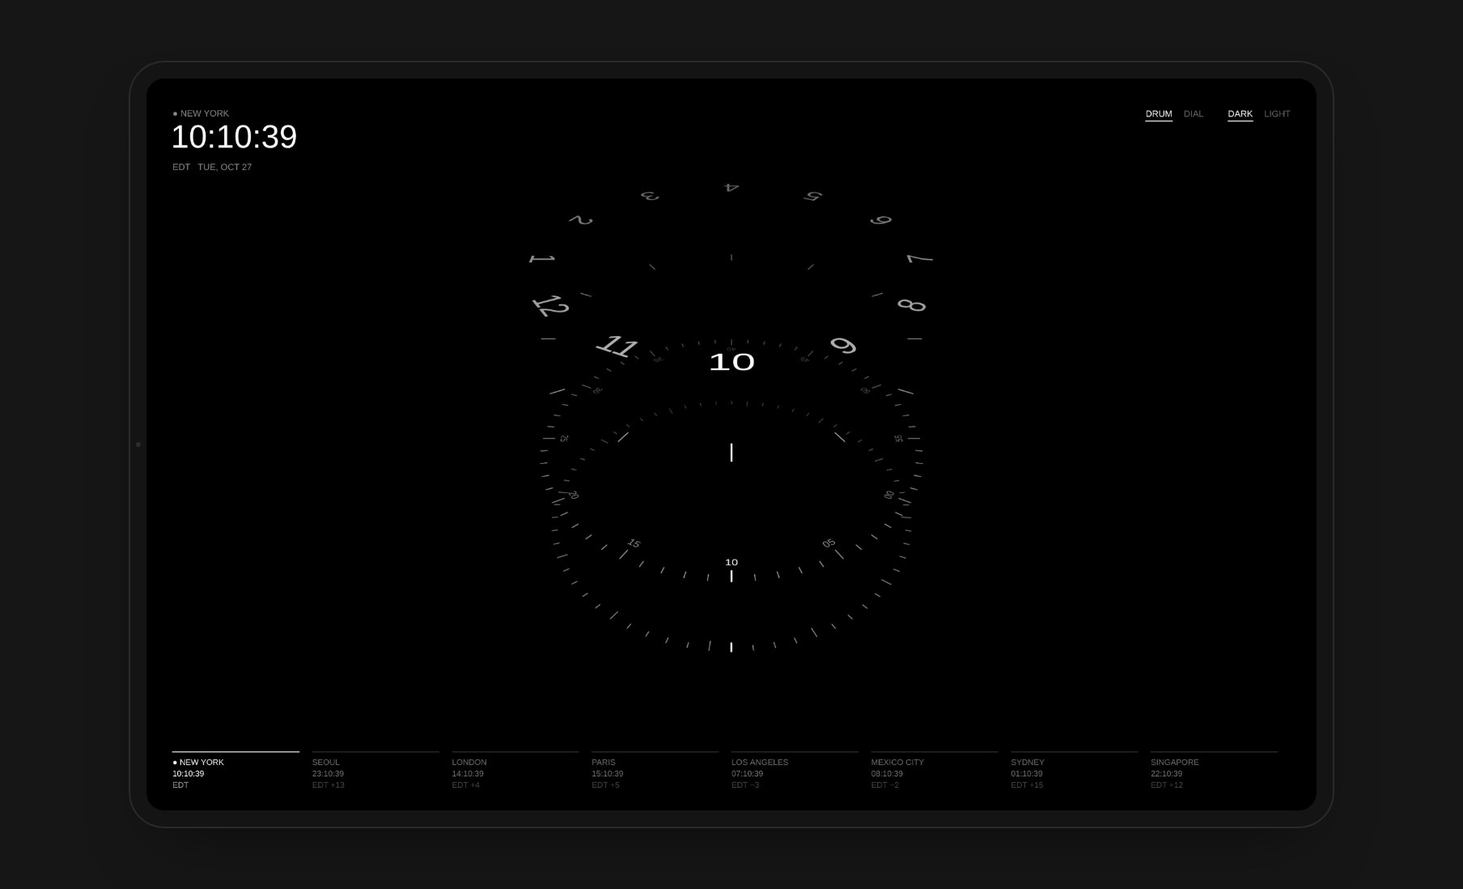
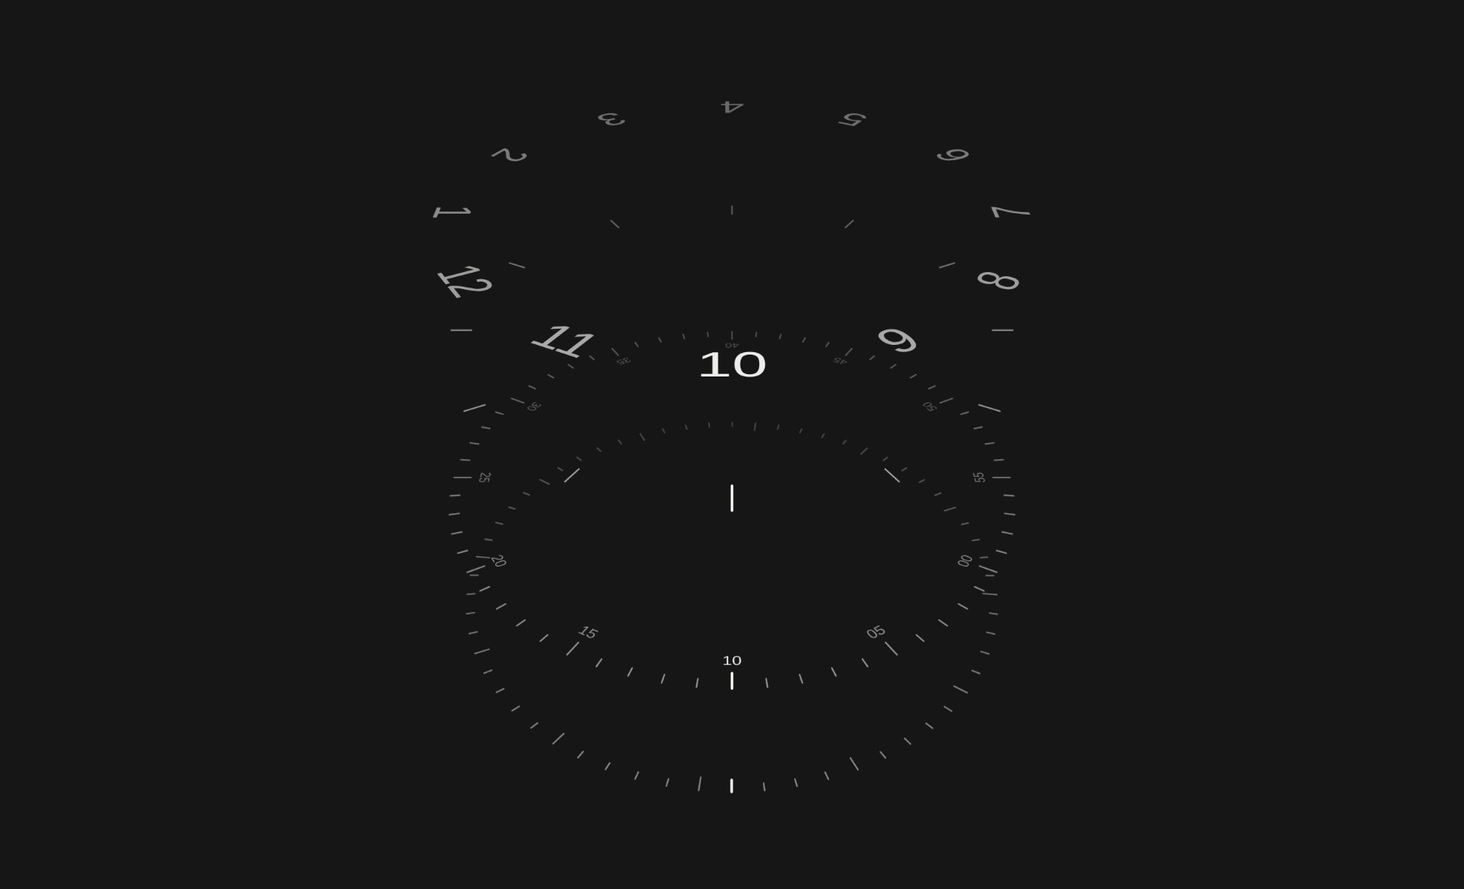
Clock case: focus on the current UI with cropped images, live light/dark demo, real phone frame; add project filter
Claude-Session: https://claude.ai/code/session_01K3jAfAAt78B67nopWeerwA

diff --git a/index.html b/index.html
@@ -125,6 +125,19 @@ html.intro::-webkit-scrollbar{display:none}
 .feed .media::before{transition:opacity .8s var(--ease)}
 .go .stmt .w>span{transform:none;transition:transform 1.35s var(--out)}
 .go .sub{opacity:1;transform:none;transition:opacity 1s var(--ease) 1s,transform 1.3s var(--out) 1s}
+/* project filter: quiet text buttons, the chosen one in full ink with a hairline under it */
+.flt{display:flex;justify-content:center;flex-wrap:wrap;gap:4px clamp(18px,2.2vw,30px);margin:clamp(56px,7vw,104px) 0 0;position:relative;z-index:5}
+.flt button{position:relative;padding:6px 0 7px;font-family:var(--sans);font-size:13.5px;font-weight:500;letter-spacing:-.015em;color:var(--muted);transition:color .5s var(--ease)}
+.flt button sup{margin-left:3px;font-size:10px;letter-spacing:0;vertical-align:baseline;position:relative;top:-.55em;color:var(--soft);transition:color .5s var(--ease)}
+.flt button::after{content:"";position:absolute;left:0;right:0;bottom:0;height:1px;background:var(--fg);transform:scaleX(0);transform-origin:right;transition:transform .7s var(--out)}
+.flt button:hover{color:var(--fg)}
+.flt button.on{color:var(--fg)}
+.flt button.on sup{color:var(--muted)}
+.flt button.on::after{transform:scaleX(1);transform-origin:left}
+.intro .flt{opacity:0;transform:translateY(14px)}
+.go .flt{opacity:1;transform:none;transition:opacity 1s var(--ease) 1.25s,transform 1.3s var(--out) 1.25s}
+.feed>li.f-off{display:none}
+.hero:has(.flt){padding-bottom:clamp(40px,4.4vw,72px)}
 .intro .nav{transform:translateY(-260%)}
 .go .nav{transform:none}
 
@@ -864,6 +877,19 @@ html body .cs .sec-the-globe .cz-pp li::before{width:26px!important;height:26px!
 @media (prefers-color-scheme:dark){:root:not([data-theme="light"]) .thm-d{display:block!important}:root:not([data-theme="light"]) .thm-l{display:none!important}}
 .atm-ld{position:relative}
 .clk-f{padding:0!important;overflow:hidden}
+.clk-c{display:flex;align-items:center;justify-content:center;padding:clamp(28px,4vw,56px) clamp(16px,3vw,40px)!important;min-height:clamp(160px,18vw,240px)}
+.clk-c img{display:block;max-width:100%;height:auto;width:auto;zoom:.5}
+.clk-c.clk-wide img{zoom:1;max-height:none;width:100%;max-width:640px}
+.clk-c.clk-wide img[src*="swipe"]{max-width:480px}
+.clk-c figcaption{position:absolute;left:0;right:0;bottom:14px}
+.clk-c.clk-wide{position:relative;flex-direction:column;padding-bottom:clamp(40px,5vw,60px)!important}
+.clk-ld{position:relative;aspect-ratio:1100/760;padding:0!important;overflow:hidden}
+.clk-ld iframe{position:absolute;inset:0;width:100%;height:100%;border:0;display:block;pointer-events:none}
+.clk-phs{display:flex;justify-content:center;align-items:flex-start;gap:clamp(12px,3.4vw,48px);padding:clamp(32px,5vw,64px) 16px!important}
+.dev-p15{position:relative;flex:none;width:min(28%,236px);aspect-ratio:710/1474;filter:drop-shadow(0 18px 22px rgba(0,0,0,.18))}
+.dev-p15 .scr{position:absolute;left:4.085%;top:2.103%;width:91.83%;height:96%;border-radius:15.3%/7.07%;overflow:hidden;background:#000}
+.dev-p15 .scr img{display:block;width:100%;height:100%;object-fit:cover}
+.dev-p15::after{content:"";position:absolute;inset:0;background:url(case/phone-frame-15.png) center/100% 100% no-repeat;pointer-events:none}
 .clk-f img{display:block;width:100%;height:auto}
 .clk-play{position:relative;aspect-ratio:16/10;background:#fff}
 :root[data-theme="dark"] .clk-play{background:#000}
@@ -1842,11 +1868,47 @@ $("#feed").innerHTML=ITEMS.map((it,i)=>{
   if(it.type==="lof"){const A=art(i,"lof");return `<li><button class="tile" type="button" data-lof>
       <div class="media" data-label="Lof Archive"><img class="art" src="${A.img}" alt="">${veil(`<span>Lof</span><span>2019</span>`,"Before screens, leather. Twelve cases, purses and ink-on-leather pieces, cut, dyed and stitched by hand.","See all 12 objects",A.fog)}</div>
       <span class="cap"><span class="t">Lof Archive</span><span class="y num">${ARCHIVE.length} objects · 2019</span></span></button></li>`}
-  const p=it.p, A=art(i);return `<li class="${FULL.has(p.slug)?'full ':WIDE.has(p.slug)?'wide ':''}${LIFE.has(p.slug)?'ph':'mk'}" style="--fp:${FOCUS[p.slug]||'50% 50%'}"><a class="tile" href="#${p.slug}" data-case="${p.slug}">
+  const p=it.p, A=art(i);return `<li data-cat="${FCAT(p)}" class="${FULL.has(p.slug)?'full ':WIDE.has(p.slug)?'wide ':''}${LIFE.has(p.slug)?'ph':'mk'}" style="--fp:${FOCUS[p.slug]||'50% 50%'}"><a class="tile" href="#${p.slug}" data-case="${p.slug}">
       <div class="media" data-label="${esc(p.title)}"><img class="art" src="${pic(p.slug)}" data-l="${pic(p.slug)}" data-d="${picD(p.slug)}" data-fb="${i}" alt="">${MOTION[p.slug]&&!reduce?`<iframe class="am" src="${MOTION[p.slug]}" title="${esc(p.title)} motion preview" tabindex="-1" aria-hidden="true"></iframe>`:''}${veilCase(p,pic(p.slug)).replace('<img class="fog"',`<img class="fog" data-l="${pic(p.slug)}" data-d="${picD(p.slug)}"`)}</div>
       <span class="cap"><span class="t">${p.title}</span><span class="y num">${p.client} · ${p.year}</span><span class="l">${LINE[p.slug]||p.sum}</span></span></a></li>`}).join("");
 
 const feed=$("#feed"), lis=[...feed.children];
+
+/* ---------- filter: all · vibe coding · work · concepts ---------- */
+// side projects were vibe coded with AI, The VC and PFCT were real company work in Korea,
+// everything else is a concept, a hackathon or self-initiated
+function FCAT(p){return {side:"ai",vc:"work",pf:"work"}[p.group]||"concept"}
+const FLT=[["all","All"],["ai","Vibe coding"],["work","Work"],["concept","Concepts"]];
+(()=>{
+  const count=c=>c==="all"?lis.length:lis.filter(li=>li.dataset.cat===c).length;
+  const nav=document.createElement("nav");nav.className="flt";nav.id="flt";nav.setAttribute("aria-label","Filter projects");
+  nav.innerHTML=FLT.filter(([c])=>count(c)>0).map(([c,l],k)=>`<button type="button" data-f="${c}" aria-pressed="${k===0}"${k===0?' class="on"':""}>${l}<sup class="num">${count(c)}</sup></button>`).join("");
+  $("#sub").after(nav);
+  let cur="all";
+  nav.addEventListener("click",e=>{
+    const b=e.target.closest("button[data-f]");if(!b||b.dataset.f===cur)return;
+    cur=b.dataset.f;
+    nav.querySelectorAll("button").forEach(x=>{const on=x===b;x.classList.toggle("on",on);x.setAttribute("aria-pressed",on)});
+    applyFilter(cur);
+  });
+  function applyFilter(c){
+    const show=li=>c==="all"||li.dataset.cat===c;
+    const leaving=lis.filter(li=>!li.classList.contains("f-off")&&!show(li));
+    const run=()=>{
+      // FLIP: remember where every visible card is, change the grid, then glide them into place
+      const first=new Map(lis.map(li=>[li,li.classList.contains("f-off")?null:li.getBoundingClientRect()]));
+      lis.forEach(li=>{li.classList.toggle("f-off",!show(li));li.style.opacity=""});
+      if(reduce)return;
+      lis.forEach((li,k)=>{if(li.classList.contains("f-off"))return;const a=first.get(li),b=li.getBoundingClientRect();
+        if(!a){li.animate([{opacity:0,transform:"translateY(28px)"},{opacity:1,transform:"none"}],{duration:900,delay:60+k*35,easing:"cubic-bezier(.16,1,.3,1)",fill:"backwards"});return}
+        const dx=a.left-b.left,dy=a.top-b.top;
+        if(Math.abs(dx)+Math.abs(dy)>1)li.animate([{transform:`translate(${dx}px,${dy}px)`},{transform:"none"}],{duration:1000,easing:"cubic-bezier(.16,1,.3,1)"})});
+    };
+    if(reduce||!leaving.length)return run();
+    leaving.forEach(li=>li.animate([{opacity:1,transform:"none"},{opacity:0,transform:"scale(.98)"}],{duration:240,easing:"ease-in",fill:"forwards"}));
+    setTimeout(()=>{leaving.forEach(li=>li.getAnimations().forEach(a=>a.cancel()));run()},230);
+  }
+})();
 syncArt();try{sysDark.addEventListener('change',syncArt)}catch(_){}
 feed.querySelectorAll("img[data-fb]").forEach(im=>{im.onerror=()=>{im.onerror=null;const A=art(+im.dataset.fb);im.src=A.img;const f=im.parentNode.querySelector(".fog");if(f)f.src=A.fog}});
 /* ---------- smooth scroll ---------- */
@@ -2288,22 +2350,28 @@ clock:{sec:[
    {h:"Real time",d:"Every ring follows the real hour, minute and second, in whichever city you pick."}]}]},
  {k:"The idea",h:"Taking a clock apart",b:["I wanted to take a clock apart into its pieces, hours, minutes and seconds, and turn it into an interactive tool where you can change the perspective and the mode.","So each unit became its own ring, stacked on top of the others like a drum. Instead of hands moving around a face, the rings turn, and the current time always ends up at the front."],
   blocks:[{t:"html",html:`<figure class="pn clk-f"><img class="thm-l" src="case/clock/parts.jpg" alt="The clock split into four rings: hours, hour marks, minutes and seconds" loading="lazy"><img class="thm-d" src="case/clock/parts-d.jpg" alt="The clock split into four rings: hours, hour marks, minutes and seconds" loading="lazy"></figure>`}]},
- {k:"Versions with Claude",h:"From LED pixels to thin lines",b:["I started by describing the assignment to Claude, and the first draft was a pixel clock made of glowing 3D blocks. It worked, but it looked like every other LED clock.","Then I found a reference of a rotating dial, with nothing but white lines and numbers on black, and asked Claude to rebuild it in that direction. From there it was a lot of small rounds. I looked at each version, pointed out what felt off, and kept going."],
-  blocks:[{t:"html",html:`<div class="atm-v">${[["v1","Pixel blocks","The first draft. The time was spelled out in colorful 3D blocks you could knock around with the mouse."],["v2","Black and white rings","After the reference, I dropped the color and turned the hours, minutes and seconds into stacked rings."],["v3","Lining up the present","The current hour, minute and second now sit on one line at the front, and the numbers run clockwise."],["v4","Phones and the last details","Text buttons, a swipeable city row, and light or dark depending on the time of day in each city."]].map(([f,h,d])=>`<figure><div class="pn atm-vc">${f==="v4"?`<img class="thm-l" src="case/clock/v4.jpg" alt="${h}" loading="lazy"><img class="thm-d" src="case/clock/v4-d.jpg" alt="${h}" loading="lazy">`:`<img src="case/clock/${f}.jpg" alt="${h}" loading="lazy">`}</div><h3>${h}</h3><p>${d}</p></figure>`).join("")}</div>`}]},
  {k:"Two views",h:"Drum and dial",b:"The same four rings can be read in two ways. You can switch between them with the buttons, or just double click the clock.",
   blocks:[{t:"html",html:`<div class="atm-m">${[["drum","Drum","The rings are stacked in 3D and seen from a slight angle. The hour is on top and the seconds are at the bottom, and the time you’re looking at is the line at the front."],["dial","Dial","The camera moves straight above and the rings flatten into a perfect circle, so it reads like a classic watch face again."]].map(([f,h,d])=>`<figure><div class="pn clk-f"><img class="thm-l" src="case/clock/${f}.jpg" alt="${h} view" loading="lazy"><img class="thm-d" src="case/clock/${f}-d.jpg" alt="${h} view" loading="lazy"></div><h3>${h}</h3><p>${d}</p></figure>`).join("")}</div>`}]},
+ {k:"Around the clock",h:"Just enough around it",b:"I kept everything around the clock small and quiet, in one typeface, so the rings stay the main thing on the screen.",
+  blocks:[{t:"html",html:`<div class="atm-m">${[["header","Where and when","The city you’re looking at, a big digital time for a quick read, and how far it is from New York with today’s date."],["modes","Two simple switches","DRUM or DIAL, and DARK or LIGHT. The one that’s on is bright and underlined, so you can tell at a glance what you’re looking at."]].map(([f,h,d])=>`<figure><div class="pn clk-c"><img class="thm-l" src="case/clock/${f}.png" alt="${h}" loading="lazy"><img class="thm-d" src="case/clock/${f}-d.png" alt="${h}" loading="lazy"></div><h3>${h}</h3><p>${d}</p></figure>`).join("")}</div>`}]},
+ {k:"World cities",h:"Every city, measured from New York",b:["The clock opens on wherever you are, marked with a small dot. Next to it are Seoul, then cities in Europe, the Americas and Australia, then a few more in other time zones. I made sure no two cities share the same time, so every one is worth checking.","Since I live in New York, every city shows how far it is from here, like EDT +13 for Seoul. In winter the label changes to EST on its own, and every city’s daylight saving time is handled by the browser."],
+  blocks:[{t:"html",html:`<figure class="pn clk-c clk-wide"><img class="thm-l" src="case/clock/cities.png" alt="The city row" loading="lazy"><img class="thm-d" src="case/clock/cities-d.png" alt="The city row" loading="lazy"></figure>`},
+   {t:"table",head:["","What it shows","Why"],rows:[
+    ["Your city","● New York","The browser knows your time zone, and with permission it also finds your city name."],
+    ["Time difference","EDT +13, EST −3","Easier to think in hours from home than in GMT."],
+    ["Day or night","Light or dark","From 6 am to 6 pm in that city the clock turns light, the rest of the day it’s dark."]]}]},
+ {k:"Light & dark",h:"The sky picks the theme",b:"When it’s daytime in the city you pick, the clock turns light, and at night it goes dark. Below, the clock keeps switching between a city where it’s day and one where it’s night, so you can watch the rings turn and the theme follow. You can still switch it yourself, and your choice stays until you change cities or the sun comes up or goes down there.",
+  blocks:[{t:"html",html:`<figure class="pn clk-ld"><iframe src="clock-panel.html?mode=ld" title="The clock switching between day and night cities" loading="lazy" tabindex="-1" aria-hidden="true"></iframe></figure>`}]},
  {k:"Try it",h:"Turn it, flatten it, travel with it",b:"This is the real clock running inside the page. Drag it to change the angle, switch views and themes, or pick another city at the bottom.",
-  blocks:[{t:"html",html:`<figure class="pn atm-ipf"><div class="ipad"><i class="cam"></i><div class="scr clk-play"><iframe src="clock-panel.html" title="Drum World Clock" loading="lazy"></iframe></div></div></figure>`},
+  blocks:[{t:"html",html:`<figure class="pn atm-ipf"><div class="ipad"><i class="cam"></i><div class="scr clk-play"><iframe src="clock-panel.html?mode=play" title="Drum World Clock" loading="lazy"></iframe></div></div></figure>`},
    {t:"cards",cols:4,num:true,items:[
     {h:"Drag",d:"Rotate the clock to see it from any angle. Let go and it floats back."},
     {h:"Scroll or pinch",d:"Zoom in and out. On phones it’s a two finger pinch."},
     {h:"Double click",d:"Flatten the drum into a dial and back. On phones, double tap."},
     {h:"Pick a city",d:"Tap any city in the row, and every ring turns to its time."}]}]},
- {k:"World cities",h:"Every city, measured from New York",b:["The clock opens on wherever you are, marked with a small dot. Next to it are Seoul, then cities in Europe, the Americas and Australia, then a few more in other time zones. I made sure no two cities share the same time, so every one is worth checking.","Since I live in New York, every city shows how far it is from here, like EDT +13 for Seoul. In winter the label changes to EST on its own, and every city’s daylight saving time is handled by the browser."],
-  blocks:[{t:"table",head:["","What it shows","Why"],rows:[
-    ["Your city","● New York","The browser knows your time zone, and with permission it also finds your city name."],
-    ["Time difference","EDT +13, EST −3","Easier to think in hours from home than in GMT."],
-    ["Day or night","Light or dark","From 6 am to 6 pm in that city the clock turns light, the rest of the day it’s dark."]]}]},
+ {k:"Mobile",h:"Made for phones too",b:"On a phone, the clock sits in the middle of the screen and gets as big as it can. All the cities live in one row that you can swipe sideways, with a soft fade at the edge so you know there’s more. You rotate with one finger and zoom with two.",
+  blocks:[{t:"html",html:`<figure class="pn clk-phs"><div class="dev-p15"><div class="scr"><img class="thm-l" src="case/clock/ph-drum.jpg" alt="" loading="lazy"><img class="thm-d" src="case/clock/ph-drum-d.jpg" alt="" loading="lazy"></div></div><div class="dev-p15"><div class="scr"><img class="thm-l" src="case/clock/ph-dial.jpg" alt="" loading="lazy"><img class="thm-d" src="case/clock/ph-dial-d.jpg" alt="" loading="lazy"></div></div><div class="dev-p15"><div class="scr"><img class="thm-l" src="case/clock/ph-list.jpg" alt="" loading="lazy"><img class="thm-d" src="case/clock/ph-list-d.jpg" alt="" loading="lazy"></div></div></figure>`},
+   {t:"html",html:`<figure class="pn clk-c clk-wide"><img class="thm-l" src="case/clock/swipe.png" alt="The swipeable city row on a phone" loading="lazy"><img class="thm-d" src="case/clock/swipe-d.png" alt="The swipeable city row on a phone" loading="lazy"><figcaption>The city row on a phone, swiped halfway</figcaption></figure>`}]},
  {k:"Small details",h:"Things I kept fixing",b:"Most of the work was in small things that felt slightly off. Each one was a short back and forth with Claude, where I described what I saw and we fixed it together.",
   blocks:[{t:"table",head:["What felt off","What I changed"],rows:[
     ["The current hour sat a little to the side of the minutes and seconds","Each ring now snaps to whole numbers, so the present always lines up in one line"],
@@ -2312,10 +2380,6 @@ clock:{sec:[
     ["The highlighted tick ran into its number","The current tick still grows, but it stops before reaching the label"],
     ["The clock looked like it was sinking","It now measures what is actually drawn, sits right under the header on desktop and in the middle on phones"],
     ["The rest of the clock competed with the time","Everything that isn’t the current time is a little softer, so the white stands out"]]}]},
- {k:"Light & dark",h:"The sky picks the theme",b:"When it’s daytime in the city you pick, the clock turns light, and at night it goes dark. You can still switch it yourself, and your choice stays until you change cities or the sun comes up or goes down there.",
-  blocks:[{t:"html",html:`<figure class="pn atm-ipf"><div class="ipad"><i class="cam"></i><div class="scr atm-ld"><img src="case/clock/ld-l.jpg" alt="New York in the morning, in light mode" loading="lazy"><img class="dk" src="case/clock/ld-d.jpg" alt="Seoul at night, in dark mode" loading="lazy"></div></div></figure>`}]},
- {k:"Mobile",h:"Made for phones too",b:"On a phone, the clock sits in the middle of the screen and gets as big as it can. All the cities live in one row that you can swipe sideways, and you rotate with one finger and zoom with two.",
-  blocks:[{t:"html",html:`<figure class="pn clk-f"><img class="thm-l" src="case/clock/mobile.jpg" alt="The clock on three phone screens" loading="lazy"><img class="thm-d" src="case/clock/mobile-d.jpg" alt="The clock on three phone screens" loading="lazy"></figure>`}]},
  {k:"Under the hood",h:"How the code works",b:"I asked Claude to explain every part in plain words and to comment the code, so I could follow what each piece does.",
   blocks:[{t:"cards",cols:2,items:[
    {h:"A Ring class",d:"Each ring knows how many marks it has, how big it is, where it sits in the drum and in the dial, and how far it has turned. It eases toward the current time instead of jumping."},
@@ -2324,7 +2388,7 @@ clock:{sec:[
    {h:"Real time zones",d:"The browser’s built in time zone tools give the exact time in each city, including daylight saving, without any server."}]}]},
  {k:"Reflections",h:"What I learned, and what I’d improve",blocks:[{t:"close",lh:"What I learned",nh:"What I’d improve",
   learned:[
-   ["References changed the direction","The first draft only became interesting once I showed Claude a reference instead of describing a clock in words."],
+   ["References changed the direction","The clock only became interesting once I showed Claude a reference instead of describing a clock in words."],
    ["Small details made it feel finished","Lining up the present, the direction of the numbers and the spacing took longer than the 3D itself, and mattered more."],
    ["I understood the code by asking","Asking Claude to explain each part made the assignment’s loops and class actually make sense to me."]],
   next:[

diff --git a/clock-panel.html b/clock-panel.html
@@ -5,15 +5,42 @@
 <meta name="viewport" content="width=device-width,initial-scale=1">
 <title>Drum World Clock</title>
 <meta name="robots" content="noindex">
-<style>html,body{margin:0;overflow:hidden;background:#fff}</style>
+<style>html,body{margin:0;overflow:hidden;background:#fff}canvas{display:block}</style>
 <script src="https://cdnjs.cloudflare.com/ajax/libs/p5.js/1.11.1/p5.min.js"></script>
 </head>
 <body>
 <script>
-// Embedded copy of the Drum World Clock for the case study.
-// Same code as the live clock, except: colors follow the portfolio's theme,
-// the page can still scroll over it, and it doesn't ask for your location.
+/*
+  The Drum World Clock, embedded in the case study.
+  It's the same code as the live clock, with a few changes for living inside a page:
+
+  - It always draws a full-size screen (1440 x 900 on wide frames, 390 x 520 on
+    phones) and then shrinks the canvas to fit the frame, so the proportions are
+    exactly the same as the real clock.
+  - ?mode=play  : the interactive version. Colors follow the portfolio's theme,
+                  and the page can still scroll over it.
+  - ?mode=ld    : a self-running demo for the Light & dark section. It keeps only
+                  the header and the clock, and switches between a city where it's
+                  day and a city where it's night, so you can watch the theme follow.
+*/
 const EMBED = true;
+const MODE = new URLSearchParams(location.search).get('mode') || 'play';
+let VW = 1440, VH = 900;
+
+function embedCanvas() {
+  if (MODE === 'ld') { VW = 1100; VH = 760; }
+  else if (window.innerWidth < 560) { VW = 390; VH = 520; }
+  const c = createCanvas(VW, VH);
+  pixelDensity(Math.min(3, Math.max(1, displayDensity() * window.innerWidth / VW)));
+  fitCanvasToWindow();
+  return c;
+}
+// keep the drawing size, only change how big it looks on screen
+function fitCanvasToWindow() {
+  const el = document.querySelector('canvas'); if (!el) return;
+  el.style.width = window.innerWidth + 'px';
+  el.style.height = window.innerHeight + 'px';
+}
 </script>
 <script>
 /*
@@ -162,9 +189,9 @@ class Ring {
 //  SETUP
 // =================================================================
 function setup() {
-  const cnv = createCanvas(windowWidth, windowHeight);
+  const cnv = EMBED ? embedCanvas() : createCanvas(windowWidth, windowHeight);
   // draw at the screen's real sharpness (3x on most phones, 2x on Retina laptops)
-  pixelDensity(constrain(displayDensity(), 2, 3));
+  if (!EMBED) pixelDensity(constrain(displayDensity(), 2, 3));
   // phones: stop the browser from scrolling / zooming the page while you touch the clock
   cnv.style('touch-action', EMBED ? 'pan-y' : 'none');   // embedded: vertical swipes still scroll the page
   canHover = window.matchMedia('(hover: hover)').matches;
@@ -785,21 +812,59 @@ function keyPressed() {
 }
 
 function windowResized() {
+  if (EMBED) { fitCanvasToWindow(); return; }
   resizeCanvas(windowWidth, windowHeight);
 }
 
 </script>
 <script>
-// follow the portfolio's light / dark theme
-let parentDark = null;
-function syncTheme() {
-  let d = false;
-  try { const r = parent.document.documentElement; d = r.dataset.theme ? r.dataset.theme === 'dark' : parent.matchMedia('(prefers-color-scheme: dark)').matches; }
-  catch (_) { d = matchMedia('(prefers-color-scheme: dark)').matches; }
-  if (d !== parentDark) { parentDark = d; setLight(!d); }
-}
-setInterval(syncTheme, 400);
-window.addEventListener('load', () => setTimeout(syncTheme, 50));
+// ---------- embed setup ----------
+(function () {
+  // no tilting with the mouse position (it pushed the clock off center in a small frame)
+  const startNoHover = () => { canHover = false; };
+  window.addEventListener('load', () => setTimeout(startNoHover, 0));
+
+  if (MODE === 'ld') {
+    // only the header and the clock, centered in the frame
+    drawControls = () => {};
+    drawCityList = () => {};
+    const baseLayout = computeLayout;
+    computeLayout = function () {
+      const L = baseLayout();
+      const top = L.head.bottom + 40, bottom = height - 50;
+      L.clock.box = { cx: width / 2, cy: (top + bottom) / 2, w: width - 160, h: bottom - top };
+      L.short = true;          // center the clock in its box
+      L.list.maxScroll = 0;
+      return L;
+    };
+    document.documentElement.style.pointerEvents = 'none';
+
+    // pick one city where it's day and one where it's night, then switch every few seconds
+    const isDay = c => { const h = getTime(c, new Date()).h; return h >= DAY_START && h < DAY_END; };
+    let k = 0;
+    function step() {
+      const day = CITIES.findIndex(isDay), night = CITIES.findIndex(c => !isDay(c));
+      const pair = [day, night].filter(i => i >= 0);
+      if (!pair.length) return;
+      const i = pair[k++ % pair.length];
+      setCity(i);
+      setTimeout(() => setLight(isDay(CITIES[i])), 30);   // the theme follows the sky there
+    }
+    window.addEventListener('load', () => { setTimeout(step, 300); setInterval(step, 3800); });
+    return;
+  }
+
+  // play mode: colors follow the portfolio's light / dark theme
+  let parentDark = null;
+  function syncTheme() {
+    let d = false;
+    try { const r = parent.document.documentElement; d = r.dataset.theme ? r.dataset.theme === 'dark' : parent.matchMedia('(prefers-color-scheme: dark)').matches; }
+    catch (_) { d = matchMedia('(prefers-color-scheme: dark)').matches; }
+    if (d !== parentDark) { parentDark = d; setLight(!d); }
+  }
+  setInterval(syncTheme, 400);
+  window.addEventListener('load', () => setTimeout(syncTheme, 50));
+})();
 </script>
 </body>
 </html>
